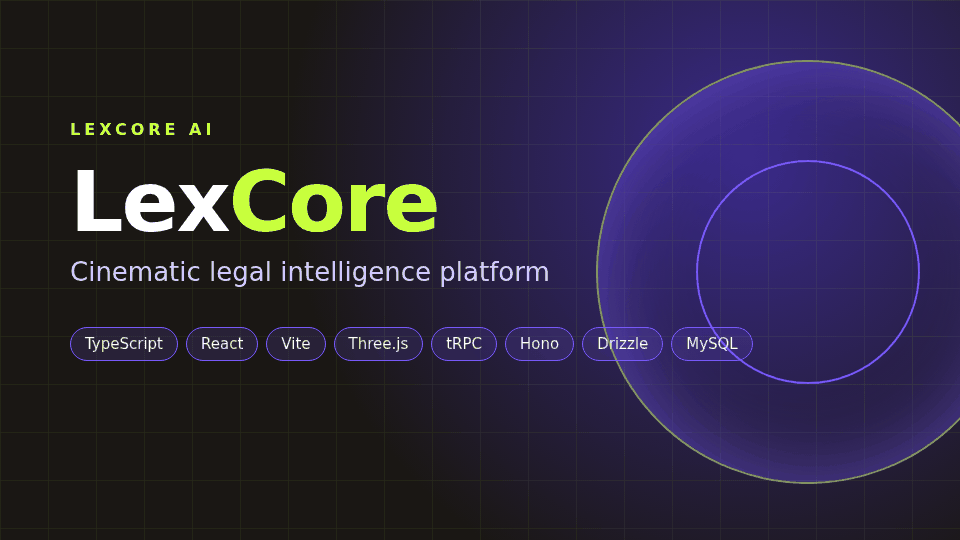
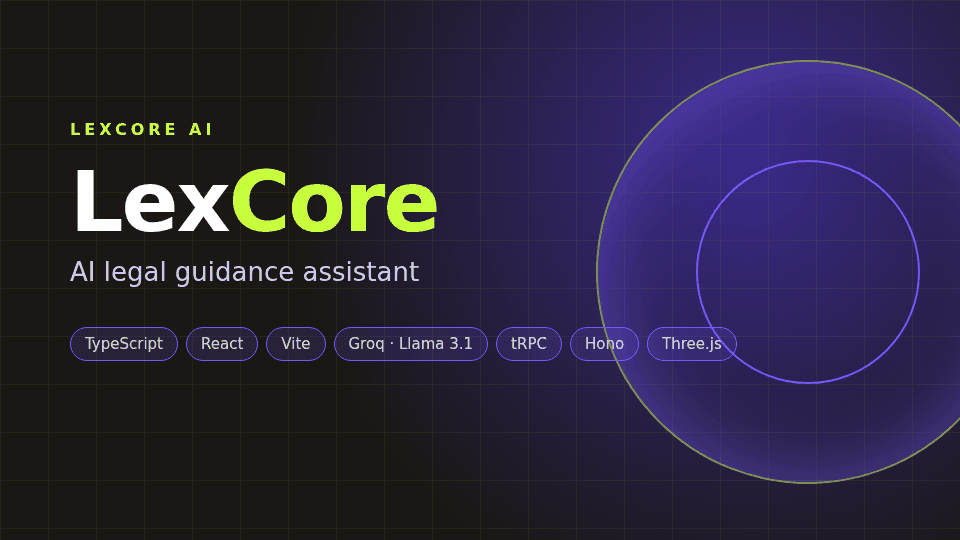
Reposition profile: AI developer & vibe coder

diff --git a/README.md b/README.md
@@ -1,21 +1,20 @@
 <!-- ═══════════════════════════ HERO ═══════════════════════════ -->
 <p align="center">
-  <a href="https://hasenix.com">
-    <img src="assets/hero.svg" width="100%" alt="Mohammed Hassan bin Tayyeb: Founder, Hasenix · AI builder · London" />
+  <a href="https://github.com/hbtabi">
+    <img src="assets/hero.svg" width="100%" alt="Mohammed Hassan bin Tayyeb: AI developer · Vibe coder · London" />
   </a>
 </p>
 
 <!-- ═══════════════════════════ NAV ═══════════════════════════ -->
 <p align="center">
-  <a href="https://hasenix.com"><img src="https://img.shields.io/badge/Website-1a1714?style=for-the-badge&logo=googlechrome&logoColor=c8ff3d" alt="Website" /></a>
   <a href="#about-me"><img src="https://img.shields.io/badge/About-1a1714?style=for-the-badge&logo=handshake&logoColor=c8ff3d" alt="About" /></a>
-  <a href="#what-i-do"><img src="https://img.shields.io/badge/Work-1a1714?style=for-the-badge&logo=sparkfun&logoColor=c8ff3d" alt="Work" /></a>
+  <a href="#what-i-do"><img src="https://img.shields.io/badge/What%20I%20do-1a1714?style=for-the-badge&logo=sparkfun&logoColor=c8ff3d" alt="What I do" /></a>
   <a href="#selected-work"><img src="https://img.shields.io/badge/Projects-1a1714?style=for-the-badge&logo=github&logoColor=c8ff3d" alt="Projects" /></a>
   <a href="#contact"><img src="https://img.shields.io/badge/Contact-7b5cff?style=for-the-badge&logo=maildotru&logoColor=white" alt="Contact" /></a>
 </p>
 
 <p align="center">
-  <img src="https://readme-typing-svg.demolab.com?font=Space+Grotesk&weight=500&size=20&duration=2600&pause=900&color=7B5CFF&center=true&vCenter=true&width=640&lines=AI+video+%26+UGC+for+artists+and+brands;Multi-agent+workflows+that+do+real+work;Prompts+treated+like+code;Websites+for+London+businesses" alt="AI video & UGC for artists and brands · Multi-agent workflows · Prompts treated like code · Websites for London businesses" />
+  <img src="https://readme-typing-svg.demolab.com?font=Space+Grotesk&weight=500&size=20&duration=2600&pause=900&color=7B5CFF&center=true&vCenter=true&width=640&lines=AI+developer;Vibe+coder%3A+idea+%E2%86%92+shipped;Multi-agent+systems+%26+LLM+apps;Prompt+engineering;Building+in+public" alt="AI developer · Vibe coder: idea → shipped · Multi-agent systems & LLM apps · Prompt engineering · Building in public" />
 </p>
 
 <br />
@@ -32,23 +31,23 @@
 <table>
   <tr>
     <td width="30%" align="center" valign="middle">
-      <img src="assets/mark.svg" width="200" alt="H/X: Hasenix mark" />
+      <img src="assets/mark.svg" width="200" alt="Code mark" />
     </td>
     <td width="70%" valign="top">
       <h3>Hey, I'm Hassan 👋</h3>
       <p>
-        I'm the founder of <a href="https://hasenix.com"><b>Hasenix</b></a>, a UK creative studio making
-        <b>AI video, UGC and marketing</b> for artists and brands, and <b>websites for London businesses</b>.
+        I'm an <b>AI developer</b> and <b>vibe coder</b>. I take an idea and ship it as a working AI product,
+        fast, with LLMs, agents and AI coding tools doing a lot of the heavy lifting.
       </p>
       <p>
-        I'm a <b>prompt engineer</b> at heart: I build <b>multi-agent workflows</b>, <b>AI video pipelines</b>
-        and the automation that ties them together. Based in London, where I'm also studying IT.
+        My focus is <b>prompt engineering</b>, <b>multi-agent systems</b> and <b>full-stack LLM apps</b>.
+        Right now I'm working on a batch of new projects. I'm based in London, where I'm also studying IT.
       </p>
       <p><b>⚡ Currently</b></p>
       <ul>
-        <li>🎬 Building <a href="https://hasenix.com">Hasenix</a></li>
-        <li>🛠 Shipping open-source AI tools</li>
-        <li>🤖 Exploring multi-agent systems</li>
+        <li>🚀 Shipping new AI apps and open-source tools</li>
+        <li>🤖 Exploring multi-agent systems and agent memory</li>
+        <li>🧪 Treating prompts like code: versioned and evaluated</li>
       </ul>
     </td>
   </tr>
@@ -56,7 +55,6 @@
 
 <p align="center">
   <a href="https://instagram.com/hasaanrx"><img src="https://img.shields.io/badge/@hasaanrx-1a1714?style=for-the-badge&logo=instagram&logoColor=c8ff3d" alt="Instagram @hasaanrx" /></a>
-  <a href="https://hasenix.com"><img src="https://img.shields.io/badge/hasenix.com-1a1714?style=for-the-badge&logo=googlechrome&logoColor=c8ff3d" alt="Website hasenix.com" /></a>
   <a href="mailto:hasaantayyb1@gmail.com"><img src="https://img.shields.io/badge/Email-1a1714?style=for-the-badge&logo=gmail&logoColor=c8ff3d" alt="Email hasaantayyb1@gmail.com" /></a>
   <img src="https://komarev.com/ghpvc/?username=hbtabi&color=7b5cff&style=for-the-badge&label=PROFILE+VIEWS" alt="Profile views" />
 </p>
@@ -66,7 +64,7 @@
 <!-- ═══════════════════════════ NOW BUILDING ═══════════════════════════ -->
 <div align="center">
 
-<sub><code>02</code> &nbsp;NOW BUILDING</sub>
+<sub><code>02</code> &nbsp;IN THE WORKS</sub>
 
 ## Now building
 
@@ -74,23 +72,14 @@
 
 <table>
   <tr>
-    <td width="66%" valign="middle">
-      <h3><a href="https://hasenix.com">Hasenix</a> &nbsp;<sub>· London, UK</sub></h3>
+    <td width="100%" valign="top" align="center">
+      <h3>A few new AI products in the works, shipping soon 🛠</h3>
+      <p>LLM apps, agents and developer tools, built fast and shipped in public.<br />Until then, the open-source pieces are already here:</p>
       <p>
-        A UK creative studio I founded. We make <b>AI videos, UGC and marketing</b> for
-        <b>artists and brands</b>, and design <b>websites for London businesses</b>.
+        <a href="https://github.com/hbtabi/agent-relay"><img src="https://img.shields.io/badge/agent--relay-1a1714?style=for-the-badge&logo=typescript&logoColor=c8ff3d" alt="agent-relay" /></a>
+        <a href="https://github.com/hbtabi/prompt-forge"><img src="https://img.shields.io/badge/prompt--forge-1a1714?style=for-the-badge&logo=python&logoColor=c8ff3d" alt="prompt-forge" /></a>
+        <a href="https://github.com/hbtabi/lexcore"><img src="https://img.shields.io/badge/lexcore-1a1714?style=for-the-badge&logo=react&logoColor=c8ff3d" alt="lexcore" /></a>
       </p>
-      <p>
-        The idea is simple: use AI for speed and volume, use taste to decide what actually ships.
-        Behind the studio sits a stack of my own tools for scripting, prompting and automating the work.
-      </p>
-      <p>
-        <a href="https://hasenix.com"><img src="https://img.shields.io/badge/Visit%20hasenix.com%20%E2%86%92-c8ff3d?style=for-the-badge&labelColor=1a1714" alt="Visit hasenix.com" /></a>
-        <a href="https://github.com/hbtabi/hasenix-portfolio"><img src="https://img.shields.io/badge/Site%20source-1a1714?style=for-the-badge&logo=github&logoColor=white" alt="Site source" /></a>
-      </p>
-    </td>
-    <td width="34%" align="center" valign="middle">
-      <a href="https://hasenix.com"><img src="assets/hasenix-mobile.png" width="200" alt="Hasenix studio site on mobile" /></a>
     </td>
   </tr>
 </table>
@@ -100,7 +89,7 @@
 <!-- ═══════════════════════════ WHAT I DO ═══════════════════════════ -->
 <div align="center">
 
-<sub><code>03</code> &nbsp;VENTURES &amp; CRAFT</sub>
+<sub><code>03</code> &nbsp;WHAT I DO</sub>
 
 ## What I do
 
@@ -109,19 +98,19 @@
 <table>
   <tr>
     <td width="33%" valign="top">
-      <h3>🎬 AI video &amp; UGC</h3>
-      <p>Music visuals, ads and short-form content for artists and brands. Script, shot list, generation, edit: one pipeline, end to end.</p>
-      <sub><b>Hasenix</b> · scene-director</sub>
+      <h3>🤖 AI apps &amp; agents</h3>
+      <p>LLM-powered apps and multi-agent systems: planners, researchers and writers that hand work to each other and stay traceable.</p>
+      <sub>agent-relay · lexcore</sub>
     </td>
     <td width="33%" valign="top">
-      <h3>🤖 AI systems</h3>
-      <p>Prompt engineering, multi-agent workflows and automation. Small, traceable systems that turn models into reliable tools.</p>
-      <sub>prompt-forge · agent-relay</sub>
+      <h3>🧠 Prompt engineering &amp; evals</h3>
+      <p>Prompts as versioned, testable code, scored against rubrics so every change is measured before it ships.</p>
+      <sub>prompt-forge</sub>
     </td>
     <td width="33%" valign="top">
-      <h3>🌐 Web for London</h3>
-      <p>Fast, SEO-ready websites for local businesses, plus full-stack TypeScript apps when a site isn't enough.</p>
-      <sub>local-biz-template · lexcore</sub>
+      <h3>⚡ Full-stack vibe coding</h3>
+      <p>Idea to deployed app, fast. AI pair-programming for the boilerplate, my judgement on what actually ships.</p>
+      <sub>TypeScript · React · Python</sub>
     </td>
   </tr>
 </table>
@@ -140,12 +129,6 @@
 <table>
   <tr>
     <td width="33%" valign="top">
-      <a href="https://github.com/hbtabi/scene-director"><img src="assets/scene-director.png" width="100%" alt="scene-director CLI output" /></a>
-      <h4><a href="https://github.com/hbtabi/scene-director">scene-director</a></h4>
-      <p>Turns a screenplay into a scene-by-scene AI video shot list with ready-to-paste prompts and consistent characters.</p>
-      <sub><code>Python</code> <code>CLI</code> <code>AI video</code></sub>
-    </td>
-    <td width="33%" valign="top">
       <a href="https://github.com/hbtabi/agent-relay"><img src="assets/agent-relay.png" width="100%" alt="agent-relay run timeline" /></a>
       <h4><a href="https://github.com/hbtabi/agent-relay">agent-relay</a></h4>
       <p>Lightweight multi-agent orchestration: planner, researcher and writer agents relaying typed messages over a traceable bus.</p>
@@ -157,28 +140,37 @@
       <p>Versioned prompt templates and a rubric-based eval harness, so you know <i>v2</i> beats <i>v1</i> before it ships. Offline-first.</p>
       <sub><code>Python</code> <code>LLM evals</code> <code>CI</code></sub>
     </td>
-  </tr>
-  <tr>
-    <td width="33%" valign="top">
-      <a href="https://github.com/hbtabi/hasenix-portfolio"><img src="assets/hasenix-portfolio.png" width="100%" alt="Hasenix portfolio hero" /></a>
-      <h4><a href="https://github.com/hbtabi/hasenix-portfolio">hasenix-portfolio</a></h4>
-      <p>Animated single-page site for the studio: on-brand design system, scroll motion, accessible and SEO-ready, no framework.</p>
-      <sub><code>HTML</code> <code>CSS</code> <code>Vanilla JS</code></sub>
-    </td>
-    <td width="33%" valign="top">
-      <a href="https://github.com/hbtabi/local-biz-template"><img src="assets/local-biz-template.png" width="100%" alt="local-biz-template barbershop example" /></a>
-      <h4><a href="https://github.com/hbtabi/local-biz-template">local-biz-template</a></h4>
-      <p>One JSON file in, a fast, SEO-ready site out, built for London barbers, cafés and trades.</p>
-      <sub><code>Tailwind</code> <code>Node.js</code> <code>schema.org</code></sub>
-    </td>
     <td width="33%" valign="top">
       <a href="https://github.com/hbtabi/lexcore"><img src="assets/lexcore.png" width="100%" alt="LexCore title card" /></a>
       <h4><a href="https://github.com/hbtabi/lexcore">lexcore</a></h4>
-      <p>LexCore AI, a cinematic legal intelligence platform: full-stack web app with 3D, motion and a typed API layer.</p>
-      <sub><code>TypeScript</code> <code>React</code> <code>Three.js</code> <code>tRPC</code></sub>
+      <p>AI legal guidance assistant: describe a legal issue, get plain-English rights and next steps. Cinematic, animated UI.</p>
+      <sub><code>TypeScript</code> <code>React</code> <code>Groq · Llama 3.1</code> <code>tRPC</code></sub>
     </td>
   </tr>
+  <!--
+    TODO(Hassan): new AI repos go here once they're public on GitHub.
+    None of these existed when this was written (checked with `gh repo view hbtabi/<name>`):
+      rag-lens, voice-notes-ai, vision-tagger, sentiment-pulse, code-reviewer-bot, tiny-gpt,
+      ai-chat-ui, forecast-ai, ugc-script-gen, ai-lead-scorer, guardrail-kit, agent-memory
+    Add rows of three cards using this template (thumbnail in assets/<name>.png, 960x540):
+    <td width="33%" valign="top">
+      <a href="https://github.com/hbtabi/NAME"><img src="assets/NAME.png" width="100%" alt="NAME" /></a>
+      <h4><a href="https://github.com/hbtabi/NAME">NAME</a></h4>
+      <p>One-line description.</p>
+      <sub><code>Lang</code> <code>Tag</code></sub>
+    </td>
+  -->
 </table>
+
+<details>
+<summary><b>More projects</b></summary>
+<br />
+
+- **[scene-director](https://github.com/hbtabi/scene-director)**: screenplay → scene-by-scene AI shot list with ready-to-paste image/video prompts. <sub>`Python`</sub>
+- **[local-biz-template](https://github.com/hbtabi/local-biz-template)**: fast, SEO-ready site template for local businesses, driven by one JSON file. <sub>`JavaScript` `Tailwind`</sub>
+- **[hasenix-portfolio](https://github.com/hbtabi/hasenix-portfolio)**: animated single-page portfolio site, no framework. <sub>`HTML` `CSS` `JS`</sub>
+
+</details>
 
 <br />
 
@@ -193,16 +185,16 @@
 
 <table>
   <tr>
-    <td width="50%" valign="top"><b>01 · Ship the thing.</b><br />A working demo beats a perfect deck. Make it real, then make it better.</td>
-    <td width="50%" valign="top"><b>02 · Prompts are code.</b><br />Versioned, diffed and tested. If I can't measure it, I don't trust it.</td>
+    <td width="50%" valign="top"><b>01 · Ship first, polish fast.</b><br />Get a working version in front of people, then iterate in tight loops.</td>
+    <td width="50%" valign="top"><b>02 · AI is my pair programmer.</b><br />It writes the boilerplate. I own the architecture, the review and the result.</td>
   </tr>
   <tr>
-    <td width="50%" valign="top"><b>03 · Agents earn their place.</b><br />Small, readable and traceable. Every message is logged, every run can be replayed.</td>
-    <td width="50%" valign="top"><b>04 · Taste is the moat.</b><br />AI gives you volume. Judgement decides what's good enough to put a name on.</td>
+    <td width="50%" valign="top"><b>03 · Prompts are code.</b><br />Versioned, diffed and tested. If I can't measure it, I don't trust it.</td>
+    <td width="50%" valign="top"><b>04 · Small agents, clear contracts.</b><br />Typed messages, readable logs, replayable runs. No black boxes.</td>
   </tr>
   <tr>
-    <td width="50%" valign="top"><b>05 · Build for real businesses.</b><br />Fast pages, clear offers, easy booking. No bloat for the sake of it.</td>
-    <td width="50%" valign="top"><b>06 · Own the pipeline.</b><br />When a step is tedious, I build a tool for it and keep it.</td>
+    <td width="50%" valign="top"><b>05 · Vibes, then verification.</b><br />Move fast on feel, then lock it in with tests and evals.</td>
+    <td width="50%" valign="top"><b>06 · Build in public.</b><br />Open-source the useful bits and share what I learn along the way.</td>
   </tr>
 </table>
 
@@ -215,15 +207,17 @@
 
 ## Stack
 
-<img src="https://skillicons.dev/icons?i=ts,js,python,nodejs,react,vite,tailwind,threejs,html,css,mysql,docker,githubactions,git&theme=dark&perline=14" alt="TypeScript, JavaScript, Python, Node.js, React, Vite, Tailwind, Three.js, HTML, CSS, MySQL, Docker, GitHub Actions, Git" />
+<img src="https://skillicons.dev/icons?i=python,ts,js,nodejs,react,vite,tailwind,threejs,html,css,mysql,docker,githubactions,git&theme=dark&perline=14" alt="Python, TypeScript, JavaScript, Node.js, React, Vite, Tailwind, Three.js, HTML, CSS, MySQL, Docker, GitHub Actions, Git" />
 
 <br /><br />
 
-<img src="https://img.shields.io/badge/Prompt%20engineering-c8ff3d?style=flat-square&labelColor=1a1714" alt="Prompt engineering" />
-<img src="https://img.shields.io/badge/Multi--agent%20workflows-7b5cff?style=flat-square&labelColor=1a1714" alt="Multi-agent workflows" />
-<img src="https://img.shields.io/badge/AI%20video%20pipelines-c8ff3d?style=flat-square&labelColor=1a1714" alt="AI video pipelines" />
-<img src="https://img.shields.io/badge/LLM%20evals-7b5cff?style=flat-square&labelColor=1a1714" alt="LLM evals" />
-<img src="https://img.shields.io/badge/Automation-c8ff3d?style=flat-square&labelColor=1a1714" alt="Automation" />
+<img src="https://img.shields.io/badge/Cursor-1a1714?style=for-the-badge&logo=cursor&logoColor=c8ff3d" alt="Cursor" />
+<img src="https://img.shields.io/badge/OpenAI%20API-1a1714?style=for-the-badge&logo=openai&logoColor=c8ff3d" alt="OpenAI API" />
+<img src="https://img.shields.io/badge/Groq-1a1714?style=for-the-badge&logoColor=c8ff3d" alt="Groq" />
+<img src="https://img.shields.io/badge/LLM%20agents-7b5cff?style=for-the-badge&labelColor=1a1714" alt="LLM agents" />
+<img src="https://img.shields.io/badge/RAG-7b5cff?style=for-the-badge&labelColor=1a1714" alt="RAG" />
+<img src="https://img.shields.io/badge/Prompt%20engineering-c8ff3d?style=for-the-badge&labelColor=1a1714" alt="Prompt engineering" />
+<img src="https://img.shields.io/badge/LLM%20evals-c8ff3d?style=for-the-badge&labelColor=1a1714" alt="LLM evals" />
 
 </div>
 
@@ -236,7 +230,7 @@
 
 ## Activity
 
-<img src="metrics.svg" alt="GitHub metrics dashboard: activity, languages, habits, achievements and more" />
+<img src="metrics.svg" alt="GitHub metrics dashboard: activity, languages, contributions calendar and more" />
 
 <br /><br />
 
@@ -257,13 +251,13 @@
 
 ## Contact
 
-**Got an artist, a brand or a London business that needs AI video, UGC or a sharp website?**<br />Tell me what you're making. I'll tell you how I'd build it.
+**Building something with AI, or want a fast prototype of an idea?**<br />Drop me a message. I'm always up for talking agents, LLM apps and shipping fast.
 
 <br />
 
-<p align="center"><a href="https://hasenix.com"><img src="https://img.shields.io/badge/hasenix.com-c8ff3d?style=for-the-badge&logo=googlechrome&logoColor=1a1714&labelColor=c8ff3d" height="36" alt="hasenix.com" /></a>&nbsp;&nbsp;<a href="mailto:hasaantayyb1@gmail.com"><img src="https://img.shields.io/badge/hasaantayyb1%40gmail.com-7b5cff?style=for-the-badge&logo=gmail&logoColor=white" height="36" alt="Email hasaantayyb1@gmail.com" /></a></p>
+<p align="center"><a href="mailto:hasaantayyb1@gmail.com"><img src="https://img.shields.io/badge/hasaantayyb1%40gmail.com-c8ff3d?style=for-the-badge&logo=gmail&logoColor=1a1714" height="36" alt="Email hasaantayyb1@gmail.com" /></a>&nbsp;&nbsp;<a href="https://instagram.com/hasaanrx"><img src="https://img.shields.io/badge/@hasaanrx-7b5cff?style=for-the-badge&logo=instagram&logoColor=white" height="36" alt="Instagram @hasaanrx" /></a></p>
 
-<sub>Mohammed Hassan bin Tayyeb · Founder, Hasenix · London, UK</sub>
+<sub>Mohammed Hassan bin Tayyeb · AI developer · London, UK · <a href="https://hasenix.com">hasenix.com</a></sub>
 
 <img src="https://capsule-render.vercel.app/api?type=waving&color=0:7b5cff,50:2b2148,100:1a1714&height=110&section=footer" width="100%" alt="" />
 
